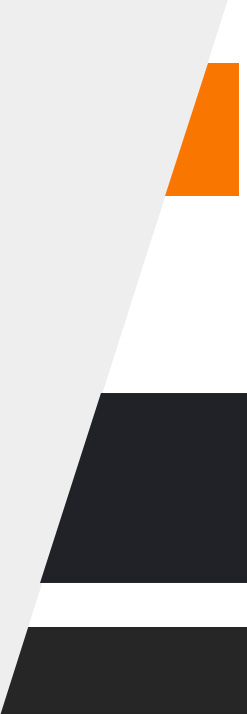
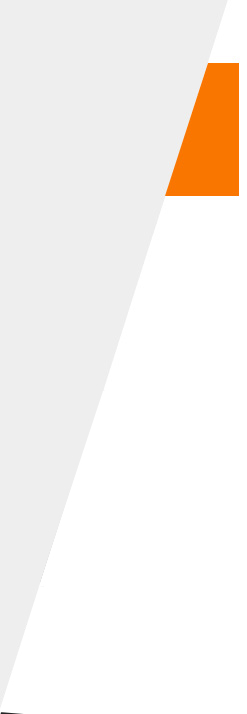
auto

diff --git a/public/templates/GP0006/css/style.css b/public/templates/GP0006/css/style.css
@@ -69,7 +69,7 @@ ol,p,dl,li{list-style:none;}
 
 .container{ width:1200px; height:auto; overflow:hidden;}
 .index{ background:url(../images/index.jpg) no-repeat #fff; width:100%; height:auto; overflow:hidden;}
-.cpzx{ width:1035px; margin-left:163px; height:223px; overflow:hidden; margin-top:43px; margin-bottom:45px;}
+.cpzx{ width:1035px; margin-left:163px; overflow:hidden; margin-top:43px; margin-bottom:45px;}
 .cp_title{ width:70px; height:127px; padding-left:5px; text-align:right; float:left; display:inline; margin-top:19px;}
 .titiea{ width:24px; line-height:20px; overflow:hidden; color:#fff; font-size:18px; float:right; margin-right:10px; padding-top:10px; }
 .titiea a{ color:#fff;}
@@ -82,17 +82,26 @@ ol,p,dl,li{list-style:none;}
 .photos .photos-content li {float:left;display:inline;text-align:center; margin-right:10px;}
 .photos .photos-content li img {  vertical-align:top;position: relative;}
 .photos ul { width:100%; height:auto; overflow:hidden}
-.photos .pings{ position:relative; width:220px; height:180px; overflow:hidden;}
-.photos .pings img{ width:220px; height:180px; vertical-align:top; }
-.photos .zolistw{ width:220px; height:180px;position:relative; overflow:hidden; display:block;}
-.photos .zolistw .text{ width:100%; height:0; overflow:hidden; position:absolute; left:0; bottom:0px;overflow:hidden; width:220px;background:url(../images/imgpng.png);}
+.photos .pings{ position:relative; width:220px; overflow:hidden;}
+.photos .pings img{ width:220px; vertical-align:top; }
+.photos .zolistw{ width:220px;position:relative; overflow:hidden; display:block;}
+.photos .zolistw .text{ width:100%; height:0; overflow:hidden; position:absolute; left:0; bottom:0px;overflow:hidden;filter:progid:DXImageTransform.Microsoft.gradient(enabled='true',startColorstr='#CCF97600', endColorstr='#CCF97600');background-color:rgba(249,118,0,0.8)}
+.photos .zolistw:hover .text{
+	height: 100%;
+	-o-transition:height 0.3s ease;
+	-webkit-transition:height 0.3s ease;
+	-ms-transition:height 0.3s ease;
+	-moz-transition:height 0.3s ease;
+	transition:height 0.3s ease
+
+}
 .yuan{ width:65px; height:33px; line-height:33px;margin:0px auto; background:#0e5b94;color:#fff; font-size:14px; display:block; text-align: center;}
 .dicpots{ height:27px; line-height:27px; margin:0px auto; margin-top:65px; text-align:center; font-weight:bold; font-size:14px; color:#fff;}
 .dicpots a{ display:block; color:#fff;}
 .dicpots b{ display:block; color:#f1f0f0; font-size:12px;}
 .photos .linell{ position:absolute; left:1px; top:1px;  border:solid 2px #fff; background: none;}
 
-.aboutnews{ width:1000px; margin-left:165px; height:272px; margin-bottom:44px; overflow:hidden; background:#000; background:url(../images/aboutneew.jpg) no-repeat;}
+.aboutnews{ width:1000px; padding-left:165px; height:272px; margin-bottom:44px; overflow:hidden; background:#000; background:url(../images/aboutneew.png) no-repeat;}
 .about{ width:500px; height:auto; overflow:hidden;}
 .a_title{ background:url(../images/a_title.jpg) left top  no-repeat; height:33px; line-height:43px; width:100%; overflow:hidden; font-size:18px; color:#313131; font-family:"微软雅黑";}
 .a_title span{ text-align:center;float:right; display:inline; overflow:hidden; background:url(../images/more.jpg) no-repeat; font-size:12px; width:55px; height:33px; line-height:33px; color:#fff;}
@@ -100,7 +109,7 @@ ol,p,dl,li{list-style:none;}
 .a_title span a:hover{ color:#000;}
 .borders{ width:439px; height:190px; overflow:hidden; margin:23px 0 0px; position:relative;}
 .borders .linell{ position:absolute; left:1px; top:1px;  border:solid 1px #fff; background: none;}
-.borders img{ width:239px; height:190px; float:left; display:inline;margin-right:15px;}
+.borders img{ max-width:239px; height:190px; float:left; display:inline;margin-right:15px;}
 .anputt{text-align:Justify;text-justify:inter-ideograph; height:auto;  color:#c4c4c4; line-height:22px; margin-top:40px; overflow:hidden; }
 .anputt span a{ color:#c4c4c4}
 .anputt span a:hover{ color:#fff}
@@ -177,7 +186,7 @@ height:auto; overflow:hidden;margin-left:14px;
 
 .news_deta4{ width:715px; height:auto; overflow:hidden;}
 .news_deta4 ul li{ margin-bottom:13px; padding-bottom:13px; border-bottom:1px dotted #dadada;height:auto; overflow:hidden;}
-.right_news{ width:550px; float:right;}
+.right_news{}
 .nlist_a{ height:24px; line-height:24px;  font-size:14px;  margin-bottom:0px; color:#f97600;}
 .nlist_a b{ font-weight:normal;}
 .nlist_a b{ font-weight:normal; font-size:12px; float:right; display:inline;}
@@ -186,8 +195,8 @@ height:auto; overflow:hidden;margin-left:14px;
 .nlist_word{ height:40px; line-height:20px;text-align:Justify;text-justify:inter-ideograph; color:#4e3012; font-size:12px; overflow:hidden;}
 .nlist_word a{ color:#515151;}
 .nlist_word a:hover{ color:#f97600;}
-.nimgb{ width:137px; height:84px; float:left; display:inline;box-shadow: 3px 3px 3px #b1a9a3; padding:1px; margin-right:15px;border:1px solid #d7d7d7;}
-.nimgb img{ width:137px; height:84px;}
+.nimgb{ height:84px; float:left;box-shadow: 3px 3px 3px #b1a9a3; padding:1px; margin-right:15px;border:1px solid #d7d7d7;}
+.nimgb img{ height:84px;}
 .right_newsb{ width:100%; height:auto; overflow:hidden;}
 .right_newsb .nlist_a{ background:url(../images/niewimc.jpg) left  bottom no-repeat; padding-left:20px; line-height:39px; height:39px; }
 .news_deta4 .ckxq{ padding:0px 6px; margin-top:4px;}
@@ -222,23 +231,23 @@ ul.inner_pages a{color:#333;  padding-left:8px;}
 ul.inner_pages a:hover{color:#f97600;}
 
 .ny_prod{ padding:8px 0px 12px;color:#333; overflow:hidden;}
-ul.inner_pro{height:auto; overflow:hidden; padding-bottom:10px; width:725px; padding-top:0px;}
-ul.inner_pro li{ float:left; margin:0px 16px 0px 0px;display:inline; }
-ul.inner_pro li img{ width:165px; height:135px;  vertical-align:top; }
+ul.inner_pro{height:auto; overflow:hidden; padding-bottom:10px; width:725px; padding-top:0px;font-size: 0;}
+ul.inner_pro li{ margin:0px 16px 0px 0px; display: inline-block; }
+ul.inner_pro li img{ width:165px;  vertical-align:top; }
 ul.inner_pro li .linell{ position:absolute; left:1px; top:1px;  border:solid 2px #fff; background: none;}
-ul.inner_pro li a{ width:165px; height:165px; display:block; color:#333;overflow:hidden; position:relative;}
+ul.inner_pro li a{ width:165px; display:block; color:#333;overflow:hidden; position:relative;}
 ul.inner_pro li a:hover{ color:#f97600;}
-p.photo_title{text-align:center; height:30px; line-height:30px; }
+p.photo_title{text-align:center; height:30px; line-height:30px; font-size: 12px;}
 
 
-.slideBoxc{ width:100%; height:439px; overflow:hidden; margin:20px auto;position:relative;}
+.slideBoxc{ width:100%; overflow:hidden; margin:20px auto;position:relative;}
 .slideBoxc .hd{ height:15px; overflow:hidden; position:absolute; right:5px; bottom:5px; z-index:1; }
 .slideBoxc .hd ul{ overflow:hidden; zoom:1; float:left;  }
 .slideBoxc .hd ul li{ float:left; margin-right:2px;  width:15px; height:15px; line-height:14px; text-align:center; background:#fff; display:none; cursor:pointer; }
 .slideBoxc .hd ul li.on{ background:#f00; color:#fff; }
-.slideBoxc .bd{ position:relative; height:100%; z-index:0; width:554px; height:436px; margin:0px auto; text-align:center;   }
+.slideBoxc .bd{ position:relative; z-index:0; width:554px; margin:0px auto; text-align:center;   }
 .slideBoxc .bd li{ zoom:1; vertical-align:middle; }
-.slideBoxc .bd img{ width:550px; height:432px; display:block;  border:1px solid #ddd; padding:1px; margin:0px auto; text-align:center; }
+.slideBoxc .bd img{ width:550px; display:block;  border:1px solid #ddd; padding:1px; margin:0px auto; text-align:center; }
 
 
 /* 下面是前/后按钮代码，如果不需要删除即可 */

diff --git a/app/views/templates/GP0006/index.html b/app/views/templates/GP0006/index.html
@@ -98,9 +98,8 @@
                                                     <li>
                                                         <div class="zolistw">
                                                           <div class="pings">
-                                                              <a href="{$index.pro.data[key].link}"><img src="{$index.pro.data[key].image}"  height="158" width="190"/></a>
+                                                              <a href="{$index.pro.data[key].link}"><img src="{$index.pro.data[key].image}"/></a>
                                                            </div>
-                                                           <div class="linell"></div>
                                                            <div class="text">
                                                              <div class="dicpots"><a href="{$index.pro.data[key].link}">{$index.pro.data[key].title}<b>查看详情</b></a></div>
                                                            </div>

diff --git a/public/templates/GP0006/js/function.js b/public/templates/GP0006/js/function.js
@@ -12,20 +12,20 @@ $(document).ready(function(){
 			});
 	
 		
-$(function(){
-	$('.photos .zolistw').hover(function(){
-		$('.text',this).stop().animate({
-			height:'182px'
-		});
-		$(this).find(".p_title").hide();
-	},function(){
-		$('.text',this).stop().animate({
-			height:'0px'
-		});
-		$(this).find(".p_title").show();
-	})	
+// $(function(){
+// 	$('.photos .zolistw').hover(function(){
+// 		$('.text',this).stop().animate({
+// 			height:'182px'
+// 		});
+// 		$(this).find(".p_title").hide();
+// 	},function(){
+// 		$('.text',this).stop().animate({
+// 			height:'0px'
+// 		});
+// 		$(this).find(".p_title").show();
+// 	})	
 				
-});		
+// });		
       $(".photos  .linell").height($(".photos .pings img").height()-6)
       $(".photos .zolistw ").each(function(){
         $(this).find(".linell").width($(this).find("img").innerWidth()-6)

diff --git a/app/views/templates/GP0006/list-image.html b/app/views/templates/GP0006/list-image.html
@@ -49,7 +49,7 @@
                                 {foreach name=article item=article from=$list.data}
                                 <li>
                                     <a href="{$article.link}">
-                                     <img src="{$article.image}" alt="{$article.title|strip_tags}" /><div class="linell"></div><p class="photo_title">{$article.title}</p></a>
+                                     <img src="{$article.image}" alt="{$article.title|strip_tags}"/><div class="linell"></div><p class="photo_title">{$article.title}</p></a>
                                 </li>
                                 {/foreach}                                                                      
                                                                           

diff --git a/public/templates/GP0023/css/css.css b/public/templates/GP0023/css/css.css
@@ -677,7 +677,7 @@ span.hoverview ul li {
 .category ul li a:hover{background:url(../images/libg1.png) top center no-repeat; color:#fff}
 .category ul li a:link,.category ul li a:visited{color:#fff; }
 .category ul li a.choose{ color:#bb3239;}
-.alefttitle{ width:185px; height:60px; overflow:hidden; color:#fff; padding:15px 0 0 15px; font-size:16px; background:url(../images/title_bg.jpg) no-repeat;}
+.alefttitle{ width:185px; height:50px; overflow:hidden; color:#fff; padding:15px 0 0 15px; font-size:16px; background:url(../images/title_bg.jpg) no-repeat;}
 .alefttitle span{ display:block; color:#517595; font-size:35px; margin-top:5px;}
 ul.second{ width:100%; height:auto; overflow:hidden; margin-bottom:8px; display:none;}
 ul.second li{

diff --git a/app/views/templates/GP0023/_aside.html b/app/views/templates/GP0023/_aside.html
@@ -34,7 +34,7 @@
         
 {else}	<!-- 让客服自己选择，如果当前无子栏目 展现的目标栏目 -->
 <nav>
-	<div class="alefttitle">{$_aside.pagenavs.en_name}/ <span>{$_aside.pagenavs.name}</span></div>	
+	<div class="alefttitle">{$_aside.pagenavs.en_name}/ <span>{$_aside.pagenavs.name}</span><</div>	
      <div class="category">
 	<ul class="listbg clearfix">
 		{foreach name=pagenavs2 item=nav from=$_aside.pagenavs.childmenu}
